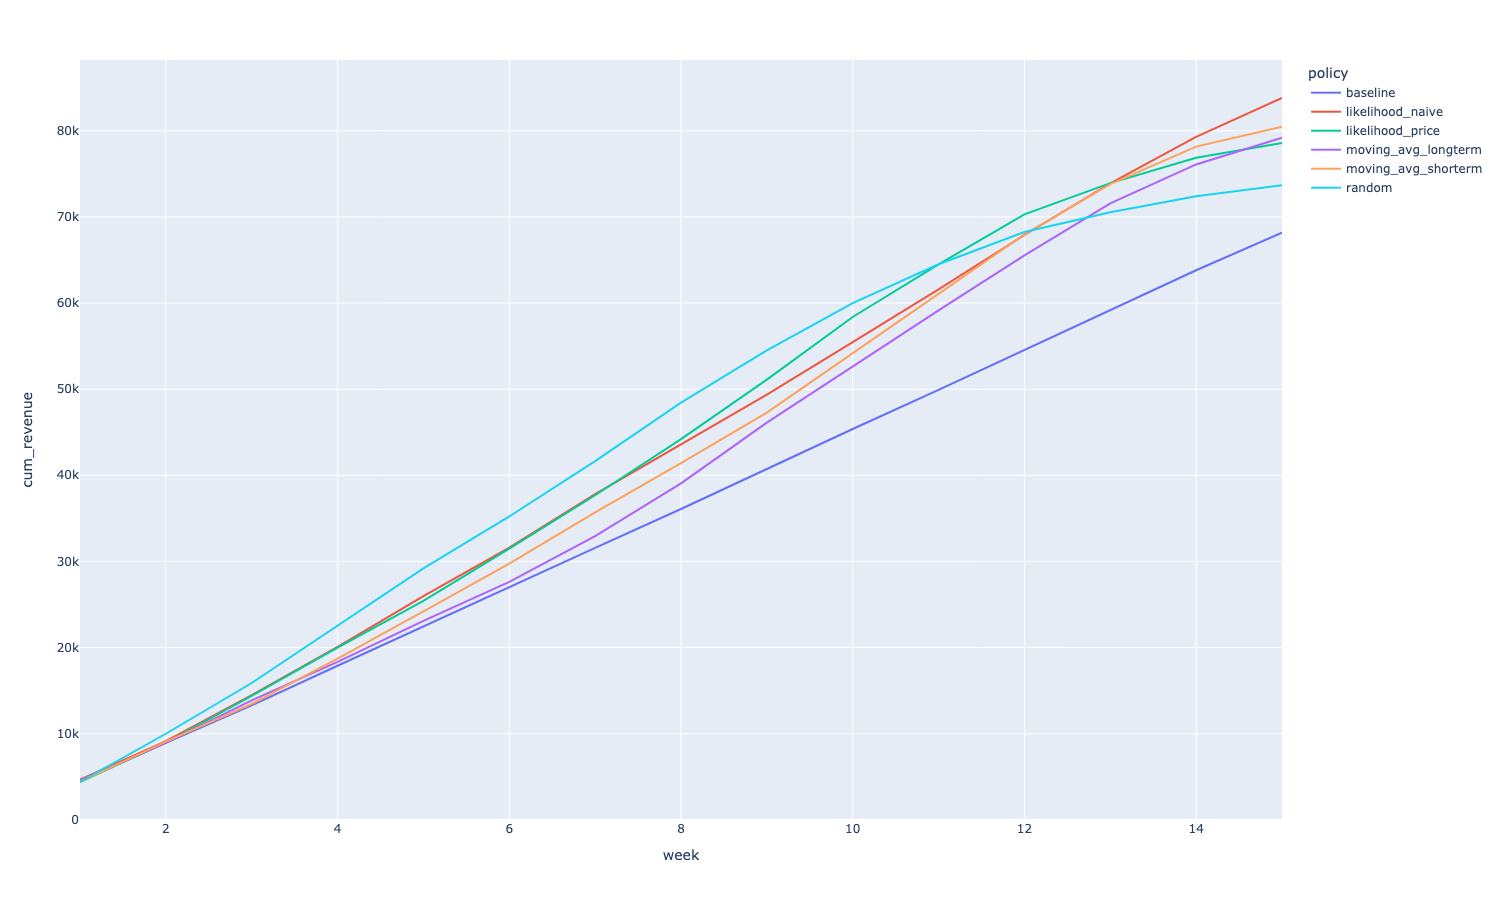
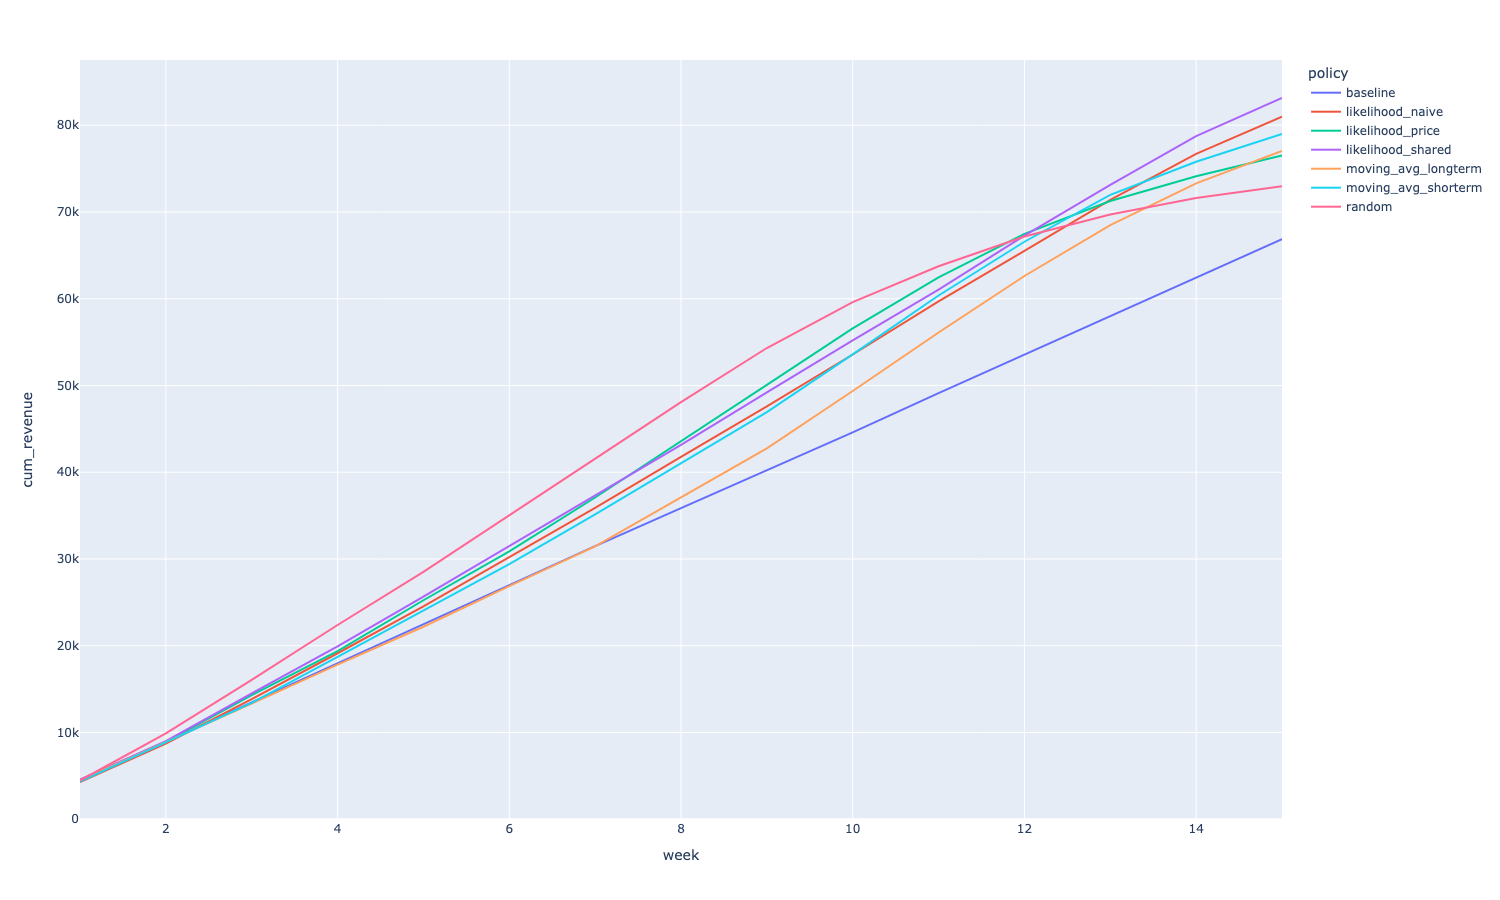
added a new policy

diff --git a/main.py b/main.py
@@ -15,6 +15,7 @@ from modules.policies import (baseline_policy,
                               moving_avg_longterm,
                               moving_avg_shorterm,
                               likelihood_naive,
+                              likelihood_shared_distribution,
                               likelihood_price_dependency,
                               random_policy,
                               rl_policy)
@@ -36,7 +37,7 @@ PROB_DATA = {'actions': {60: [60, 54, 48, 36],
 # %%
 # SIMULATION
 res = {'repl': [], 'week': [], 'sales': [], 'price': [], 'policy': [], 'param': []}
-for i in tqdm(range(100)):
+for i in tqdm(range(300)):
     distributions = {60: {'mean': max(npr.normal(DF_DIST[60]['mean_mean'],
                                                  DF_DIST[60]['mean_sd']), 0),
                           'sd': max(npr.normal(DF_DIST[60]['sd_mean'],
@@ -87,11 +88,24 @@ for i in tqdm(range(100)):
         res['price'].extend(ind_res[2])
 
     # NAIVE LIKELIHOOD POLICY
-    LIKELIHOOD_ESTIMATOR_PROB_OPTIONS = np.linspace(0, 1, 51)
+    LIKELIHOOD_ESTIMATOR_PROB_OPTIONS = np.linspace(0, 1, 101)
     for LIKELIHOOD_ESTIMATOR_PROB in LIKELIHOOD_ESTIMATOR_PROB_OPTIONS:
         ind_res = simulator(PROB_DATA, distributions, likelihood_naive, kwargs={'req_likelihood': LIKELIHOOD_ESTIMATOR_PROB})
         res['repl'].extend([i for j in range(PROB_DATA['total_duration'])])
         res['policy'].extend(['likelihood_naive' for j in range(PROB_DATA['total_duration'])])
+        res['param'].extend([LIKELIHOOD_ESTIMATOR_PROB for j in range(PROB_DATA['total_duration'])])
+        res['week'].extend(ind_res[0])
+        res['sales'].extend(ind_res[1])
+        res['price'].extend(ind_res[2])
+
+    # SHARED LIKELIHOOD POLICY
+    LIKELIHOOD_ESTIMATOR_PROB_OPTIONS = np.linspace(0, 1, 101)
+    for LIKELIHOOD_ESTIMATOR_PROB in LIKELIHOOD_ESTIMATOR_PROB_OPTIONS:
+        ind_res = simulator(PROB_DATA, distributions, likelihood_shared_distribution,
+                            kwargs={'req_likelihood': LIKELIHOOD_ESTIMATOR_PROB,
+                                    'mean_dependency': MEAN_DEPENDENCY, 'sd_dependency': SD_DEPENDENCY})
+        res['repl'].extend([i for j in range(PROB_DATA['total_duration'])])
+        res['policy'].extend(['likelihood_shared' for j in range(PROB_DATA['total_duration'])])
         res['param'].extend([LIKELIHOOD_ESTIMATOR_PROB for j in range(PROB_DATA['total_duration'])])
         res['week'].extend(ind_res[0])
         res['sales'].extend(ind_res[1])
@@ -124,13 +138,13 @@ res_agg = res.groupby(['policy', 'param', 'repl']).agg({'revenue': 'sum'}).reset
 res_agg = res_agg.groupby(['policy', 'param']).agg({'revenue': ['mean', 'std']}).reset_index()
 res_agg.columns = ['policy', 'param', 'revenue_mean', 'revenue_sd']
 res_agg.sort_values('revenue_mean')
-
+res_agg.loc[res_agg.groupby('policy')['revenue_mean'].idxmax()]
 
 # %% Clean Up Results
 res_baseline = res.query(f'policy == "baseline"')
 res_baseline['cum_revenue'] = res_baseline.groupby('repl')['revenue'].transform(pd.Series.cumsum)
 
-res_moving_avg_longterm = res.query(f'policy == "moving_avg_longterm" and param == 6')
+res_moving_avg_longterm = res.query(f'policy == "moving_avg_longterm" and param == 7')
 res_moving_avg_longterm['cum_revenue'] = res_moving_avg_longterm.groupby('repl')['revenue'].transform(pd.Series.cumsum)
 
 res_moving_avg_shorterm = res.query(f'policy == "moving_avg_shorterm" and param == 3')
@@ -138,6 +152,9 @@ res_moving_avg_shorterm['cum_revenue'] = res_moving_avg_shorterm.groupby('repl')
 
 res_likelihood_naive = res.query(f'policy == "likelihood_naive" and param == 0.04')
 res_likelihood_naive['cum_revenue'] = res_likelihood_naive.groupby('repl')['revenue'].transform(pd.Series.cumsum)
+
+res_likelihood_shared = res.query(f'policy == "likelihood_shared" and param == 0.03')
+res_likelihood_shared['cum_revenue'] = res_likelihood_shared.groupby('repl')['revenue'].transform(pd.Series.cumsum)
 
 res_likelihood_price = res.query(f'policy == "likelihood_price"')
 res_likelihood_price['cum_revenue'] = res_likelihood_price.groupby('repl')['revenue'].transform(pd.Series.cumsum)
@@ -152,6 +169,7 @@ res_all = pd.concat([res_baseline,
                      res_moving_avg_longterm,
                      res_moving_avg_shorterm,
                      res_likelihood_naive,
+                     res_likelihood_shared,
                      res_likelihood_price,
                      res_random,
                      res_rl])
@@ -192,6 +210,10 @@ fig.add_trace(go.Scatter(x=res_all_agg_versus.query(f'policy == "likelihood_naiv
                          y=res_all_agg_versus.query(f'policy == "likelihood_naive"').price,
                          name='price_likelihood_naive',
                          mode='lines'), row=2, col=2)
+fig.add_trace(go.Scatter(x=res_all_agg_versus.query(f'policy == "likelihood_shared"').week,
+                         y=res_all_agg_versus.query(f'policy == "likelihood_shared"').price,
+                         name='likelihood_shared',
+                         mode='lines'), row=2, col=3)
 fig.add_trace(go.Scatter(x=res_all_agg_versus.query(f'policy == "likelihood_price"').week,
                          y=res_all_agg_versus.query(f'policy == "likelihood_price"').price,
                          name='price_likelihood_price',

diff --git a/modules/policies.py b/modules/policies.py
@@ -18,7 +18,7 @@ def moving_avg_longterm(problem_dat, actions, sales, prices, **kwargs):
     N = kwargs['kwargs']['num_observation']
     if curr_week <= N:
         return curr_price
-    
+
     sales_pred = sales.copy()
     for i in range(curr_week, problem_dat['total_duration']):
         new_demand = np.round(sum(sales_pred[i-3:i])/3)
@@ -30,6 +30,7 @@ def moving_avg_longterm(problem_dat, actions, sales, prices, **kwargs):
     else:
         return (actions[curr_price][0])
 
+
 def moving_avg_shorterm(problem_dat, actions, sales, prices, **kwargs):
 
     # Get Price Relevant Data
@@ -40,7 +41,7 @@ def moving_avg_shorterm(problem_dat, actions, sales, prices, **kwargs):
     N = kwargs['kwargs']['num_observation']
     if curr_week <= N:
         return curr_price
-    
+
     indexes = np.where(np.array(prices) == curr_price)[0]
     # If need to gather more data
     if len(indexes) < 3:
@@ -87,6 +88,76 @@ def likelihood_naive(problem_dat, actions, sales, prices, **kwargs):
     else:
         return (actions[curr_price][0])
 
+
+def likelihood_shared_distribution(problem_dat, actions, sales, prices, **kwargs):
+
+    # Get Price Relevant Data
+    curr_price = prices[-1]
+
+    # Normalize sales to 60 prices
+    normalized_sales = []
+    if curr_price == 60:
+        normalized_sales = sales
+
+    # Normalize sales to 54 prices
+    elif curr_price == 54:
+        indexes = np.array(np.where(np.array(prices) == 60)[0])
+        vals = np.array(sales)[indexes] * kwargs['kwargs']['mean_dependency'][(60, 54)]
+        normalized_sales.extend(vals)
+
+        indexes = np.array(np.where(np.array(prices) == 54)[0])
+        vals = np.array(sales)[indexes]
+        normalized_sales.extend(vals)
+
+    # Normalize sales to 48 prices
+    elif curr_price == 48:
+        indexes = np.array(np.where(np.array(prices) == 60)[0])
+        vals = np.array(sales)[indexes] * kwargs['kwargs']['mean_dependency'][(60, 48)]
+        normalized_sales.extend(vals)
+
+        indexes = np.array(np.where(np.array(prices) == 54)[0])
+        vals = np.array(sales)[indexes] * kwargs['kwargs']['mean_dependency'][(54, 48)]
+        normalized_sales.extend(vals)
+
+        indexes = np.array(np.where(np.array(prices) == 48)[0])
+        vals = np.array(sales)[indexes]
+        normalized_sales.extend(vals)
+
+    # Normalize sales to 36 prices
+    elif curr_price == 36:
+        indexes = np.array(np.where(np.array(prices) == 60)[0])
+        vals = np.array(sales)[indexes] * kwargs['kwargs']['mean_dependency'][(60, 36)]
+        normalized_sales.extend(vals)
+
+        indexes = np.array(np.where(np.array(prices) == 54)[0])
+        vals = np.array(sales)[indexes] * kwargs['kwargs']['mean_dependency'][(54, 36)]
+        normalized_sales.extend(vals)
+
+        indexes = np.array(np.where(np.array(prices) == 48)[0])
+        vals = np.array(sales)[indexes] * kwargs['kwargs']['mean_dependency'][(48, 36)]
+        normalized_sales.extend(vals)
+
+        indexes = np.array(np.where(np.array(prices) == 36)[0])
+        vals = np.array(sales)[indexes]
+        normalized_sales.extend(vals)
+
+    # Get Distribution Estimate
+    curr_mean = np.mean(np.array(normalized_sales))
+    curr_sd = np.std(np.array(normalized_sales))
+
+    # Get Sales Requirements
+    left_over_inv = problem_dat['start_inventory'] - sum(sales)
+    daily_req = left_over_inv/(problem_dat['total_duration']-len(sales))
+
+    # Check if probability meets it
+    prob_it_fits = 1-scs.norm.cdf(daily_req, loc=curr_mean, scale=curr_sd)
+
+    if prob_it_fits < kwargs['kwargs']['req_likelihood'] and curr_price != 36:
+        return (actions[curr_price][1])
+    else:
+        return (actions[curr_price][0])
+
+
 def likelihood_price_dependency(problem_dat, actions, sales, prices, **kwargs):
 
     # Get Price Relevant Data
@@ -96,7 +167,7 @@ def likelihood_price_dependency(problem_dat, actions, sales, prices, **kwargs):
     # If need to gather more data
     if len(indexes) <= 1 or curr_price == 36:
         return (curr_price)
-    
+
     # Get Distribution Estimate (Current and Next)
     curr_mean = np.mean(np.array(sales)[indexes])
     curr_sd = np.std(np.array(sales)[indexes])
@@ -150,8 +221,8 @@ def likelihood_price_dependency(problem_dat, actions, sales, prices, **kwargs):
 def rl_policy(problem_dat, actions, sales, prices, **kwargs):
 
     # Mapping
-    _action_to_price = {0: 60, 1: 54, 2: 48,3: 36,}
-    _price_to_action = {60:0, 54:1, 48:2, 36:3}
+    _action_to_price = {0: 60, 1: 54, 2: 48, 3: 36, }
+    _price_to_action = {60: 0, 54: 1, 48: 2, 36: 3}
 
     # Get Action
     q_table = kwargs['kwargs']['q_table']
@@ -161,8 +232,8 @@ def rl_policy(problem_dat, actions, sales, prices, **kwargs):
     curr_week = len(sales) - 1
     tot_sales = int(np.sum(sales))
     new_action = np.argmax(q_table[curr_week, curr_action, curr_sales, tot_sales])
-    
+
     if new_action >= curr_action:
-        return(_action_to_price[new_action])
+        return (_action_to_price[new_action])
     else:
-        return(_action_to_price[curr_action])
+        return (_action_to_price[curr_action])
